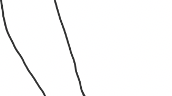
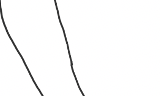
fixed top body

Changed region(s): [[0.3125, 0.0, 0.5312, 1.0], [0.0, 0.0, 0.2812, 1.0]]

diff --git a/src/screens/BackHomuncScreen.js b/src/screens/BackHomuncScreen.js
@@ -100,13 +100,13 @@ const styles = StyleSheet.create({
         resizeMode: 'contain',
     },
     lowerArm: {
-        width: 76,
-        height: 58,
+        width: 85,
+        height: 50,
         resizeMode: 'contain',
     },
     body: {
-        width: 109,
-        height: 57,
+        width: 103,
+        height: 48,
         resizeMode: 'contain',
     },
     hand: {
